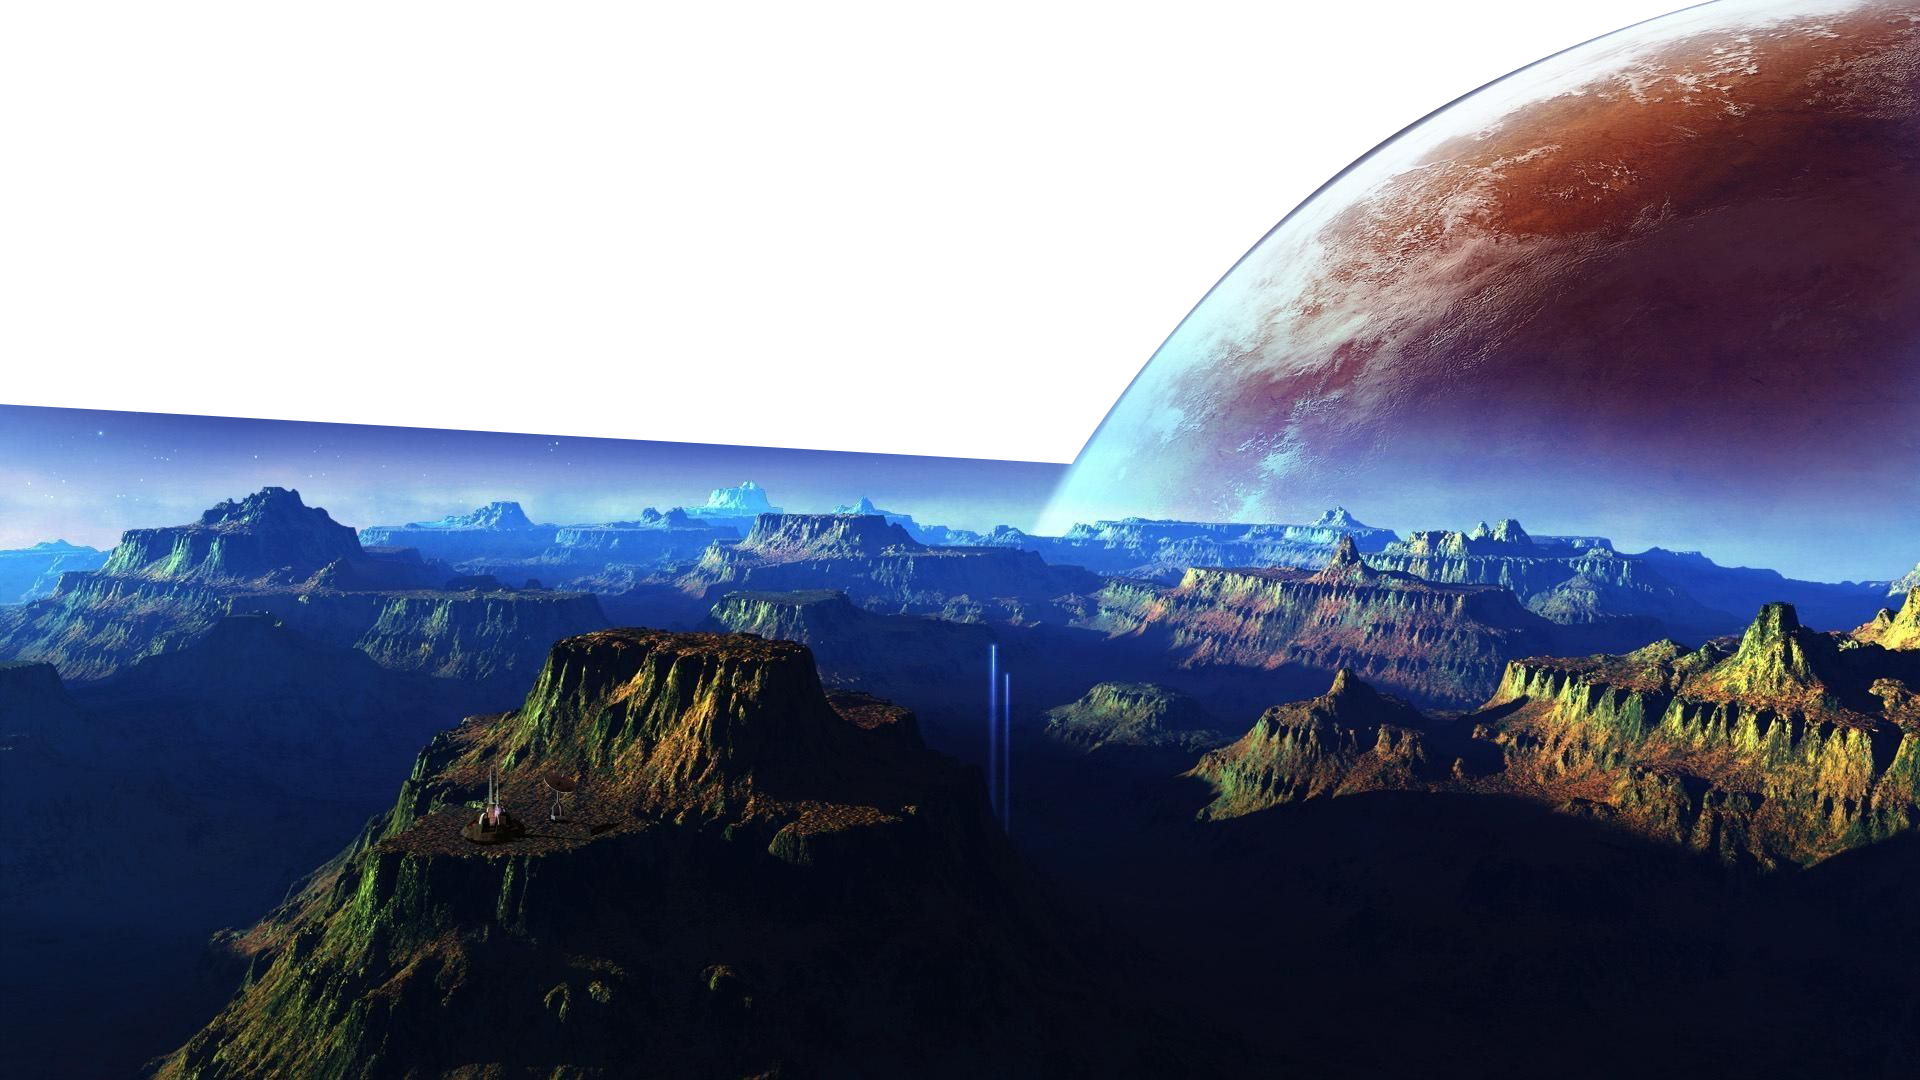
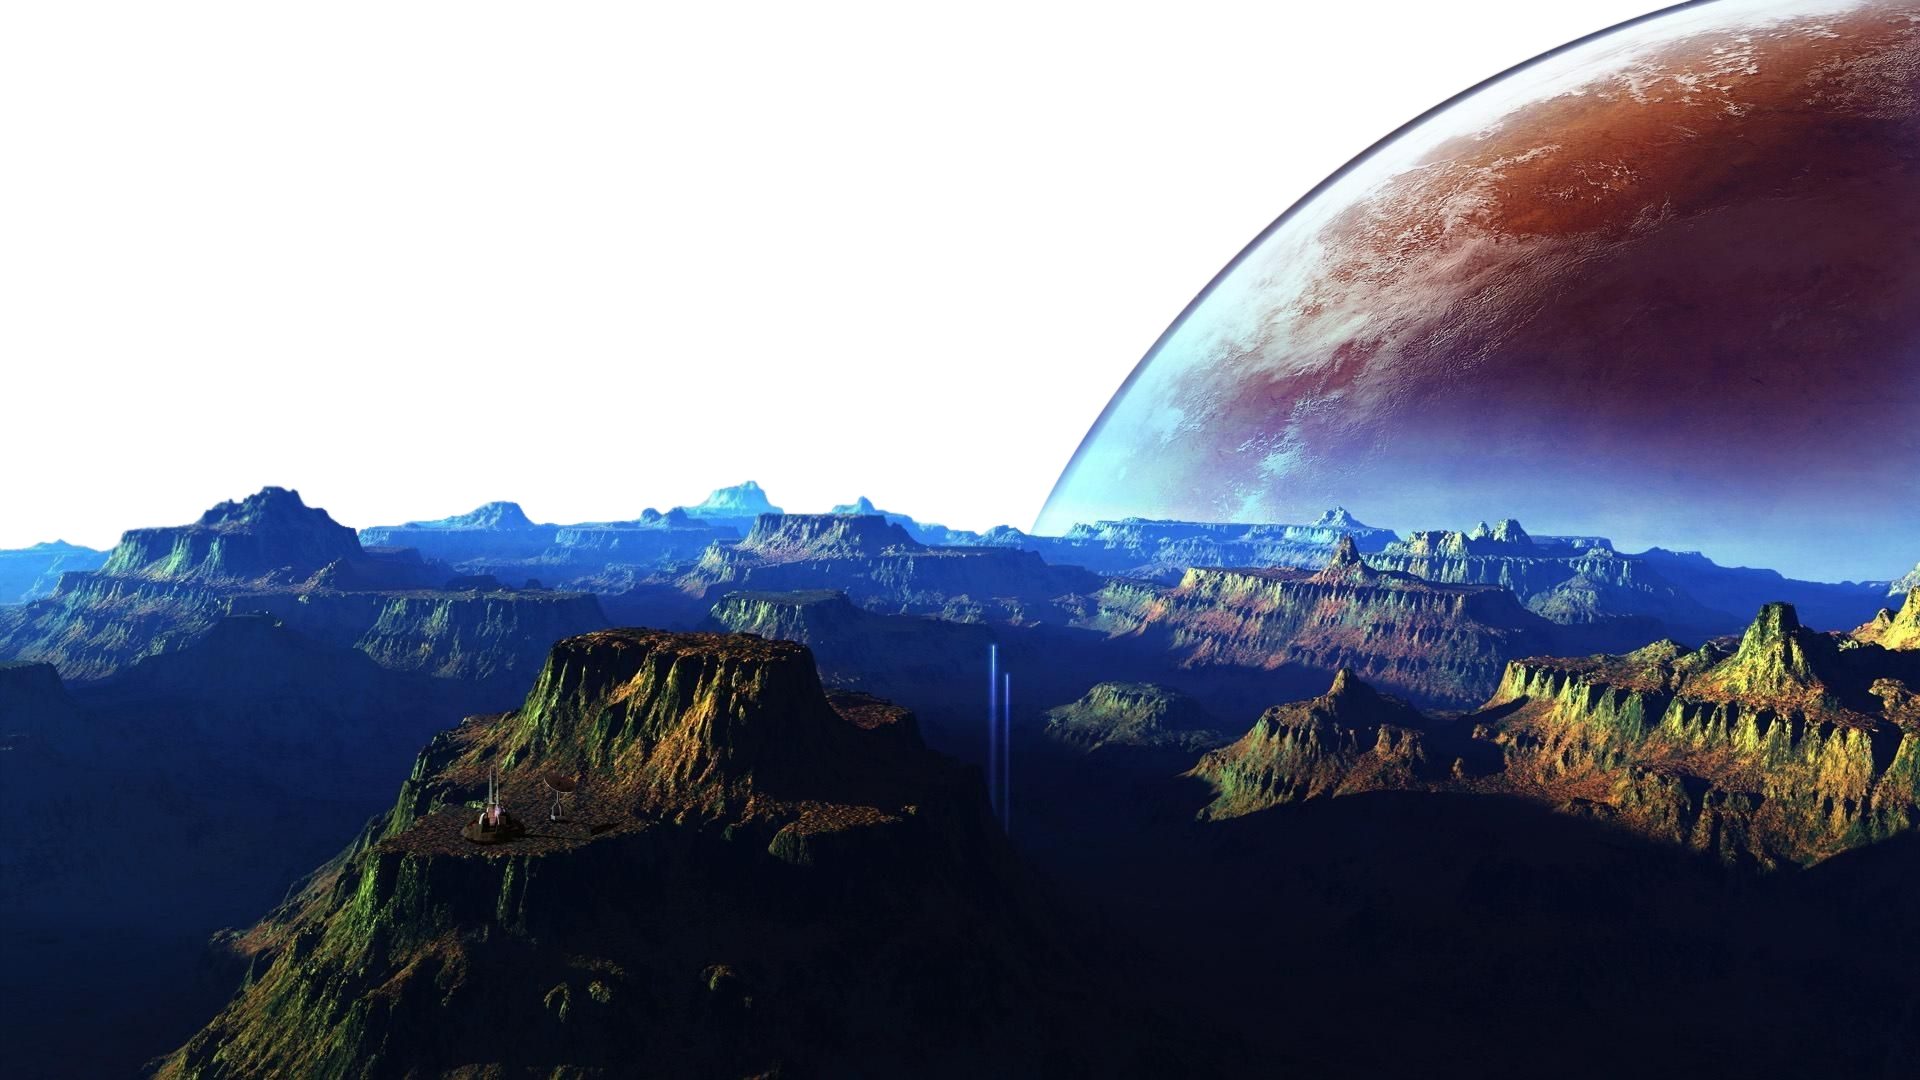
Layout da pagina home ok

diff --git a/semana9/labex/src/pages/home.js b/semana9/labex/src/pages/home.js
@@ -1,17 +1,147 @@
 import React from "react";
-import styled from "styled-components";
+import { useHistory } from "react-router";
+import styled, { keyframes } from "styled-components";
 import BaseBg from "../assets/images/bg-base.png"
+import TopBg from "../assets/images/bg-top.png"
+import MoonBg from "../assets/images/moon.png"
+import { goToListTripPage } from "../routes/coordinator";
 
 const HomePage = () => {
+    const history = useHistory()
+
     return(
     <Main>
-        Página Home
+        <MoonIMG src={MoonBg} alt="moon"/>
+        <TopIMG src={TopBg} alt="space"/>
+        <MainCard>
+            <>
+            <h1>Sejam bem vindos a LabeX!</h1>
+            <p>Somos a melhor agência de viagens espacias de toda via lactea!</p>
+            <p>Se você sempre sonhou em fazer uma viagem espacial, chegou o momento. Conheça nossos destinos, candidate-se em uma de nossas aventuras, e nos convença a escolher você para reinventar o conceito de viagens ao redor do mundo!</p>
+            </>
+            <button onClick={()=> {goToListTripPage(history)}}>Nossas Viagens</button>
+        </MainCard>
     </Main>
     )
 }
 
 export default HomePage
 
+const translate = keyframes`
+0% {
+    transform: translateX(850%) translateY(-110px) rotate(-170deg) ;
+}
+
+100% {
+    transform: translateX(-200px) translateY(300px)
+}
+`
+
 const Main = styled.main`
-background: image("../assets/images/bg-base.png")
+background: url(${BaseBg}) no-repeat;
+background-size: cover;
+height: 100vh;
+max-width: 1440px;
+position: relative;
+overflow: hidden;
+`
+
+const MainCard = styled.div`
+height: 60%;
+width: 40%;
+min-width: 360px;
+min-height: 436px;
+position: absolute;
+top: 50%;
+left: 50%;
+transform: translate(-50%,-50%);
+backdrop-filter: blur(4px);
+background: hsla(0,0%,100%,.438);
+border-radius: 10px;
+z-index: 100;
+display: flex;
+flex-direction: column;
+align-items: center;
+box-shadow: 0 8px 32px 0 rgb(0 9 2 / 82%), inset 0 8px 32px 0 rgb(28 30 69 / 52%);
+padding: 20px 30px; 
+border: 1px solid #f4f4f4;
+
+h1{
+    margin-bottom: 12px;
+
+    @media (max-width: 1024px) {
+        font-size: 24px;
+    }
+
+    @media (max-width: 768px) {
+        font-size: 21px;
+    }
+}
+
+p{
+    font-size: 20px;
+    font-weight:500;
+    text-align: justify;
+    margin-bottom: 12px;
+
+    @media (max-width: 1024px) {
+        font-size: 17px;
+        letter-spacing: 1px;
+    }
+
+    @media (max-width: 768px) {
+        font-size: 16px;
+        letter-spacing: 1px;
+    }
+}
+
+button{
+    padding: 15px;
+    outline: none;
+    border: none;
+    border-radius: 5px;
+    font-size: 18px;
+    text-transform: uppercase;
+    background-color: #2f0444;
+    
+    color: #f4f4f4;
+    font-weight: 400;
+    cursor: pointer;
+    transition: .3s;
+
+    :hover{
+        background-color: #3A0555;
+        box-shadow: 0 4px 8px 0 rgb(0 9 2 / 52%);
+        transform: translateY(-2px)
+    }
+
+    :active{
+        transform: scale(1.1);
+    }
+}
+`
+
+const MoonIMG = styled.img`
+width: 120px;
+object-fit: cover;
+position: absolute;
+left: 30px;
+animation: ${translate} 30s linear infinite;
+z-index: -1;
+`
+
+const TopIMG = styled.img`
+object-fit: cover;
+position: absolute;
+top: -110px;
+left: -110px;
+z-index: -2;
+
+@media (min-width: 1440px) {
+width: 100%;
+object-fit: cover;
+position: absolute;
+top: 1px;
+left: 0;
+}
 `

diff --git a/semana9/labex/public/index.html b/semana9/labex/public/index.html
@@ -10,34 +10,13 @@
       content="Web site created using create-react-app"
     />
     <link rel="apple-touch-icon" href="%PUBLIC_URL%/logo192.png" />
-    <!--
-      manifest.json provides metadata used when your web app is installed on a
-      user's mobile device or desktop. See https://developers.google.com/web/fundamentals/web-app-manifest/
-    -->
+    <link href="https://fonts.googleapis.com/css2?family=Poppins:wght@300;400;500;700&display=swap" rel="stylesheet">
+ 
     <link rel="manifest" href="%PUBLIC_URL%/manifest.json" />
-    <!--
-      Notice the use of %PUBLIC_URL% in the tags above.
-      It will be replaced with the URL of the `public` folder during the build.
-      Only files inside the `public` folder can be referenced from the HTML.
-
-      Unlike "/favicon.ico" or "favicon.ico", "%PUBLIC_URL%/favicon.ico" will
-      work correctly both with client-side routing and a non-root public URL.
-      Learn how to configure a non-root public URL by running `npm run build`.
-    -->
-    <title>React App</title>
+    <title>LabeX - Agência de Viagens Espaciais</title>
   </head>
   <body>
     <noscript>You need to enable JavaScript to run this app.</noscript>
     <div id="root"></div>
-    <!--
-      This HTML file is a template.
-      If you open it directly in the browser, you will see an empty page.
-
-      You can add webfonts, meta tags, or analytics to this file.
-      The build step will place the bundled scripts into the <body> tag.
-
-      To begin the development, run `npm start` or `yarn start`.
-      To create a production bundle, use `npm run build` or `yarn build`.
-    -->
   </body>
 </html>

diff --git a/semana9/labex/src/index.css b/semana9/labex/src/index.css
@@ -1,10 +1,21 @@
-body {
+* {
   margin: 0;
-  font-family: -apple-system, BlinkMacSystemFont, 'Segoe UI', 'Roboto', 'Oxygen',
+  padding: 0;
+  box-sizing: border-box;
+  font-family: 'Poppins', -apple-system, BlinkMacSystemFont, 'Segoe UI', 'Roboto', 'Oxygen',
     'Ubuntu', 'Cantarell', 'Fira Sans', 'Droid Sans', 'Helvetica Neue',
     sans-serif;
   -webkit-font-smoothing: antialiased;
   -moz-osx-font-smoothing: grayscale;
+}
+
+body {
+  font-family: 'Poppins', -apple-system, BlinkMacSystemFont, 'Segoe UI', 'Roboto', 'Oxygen',
+    'Ubuntu', 'Cantarell', 'Fira Sans', 'Droid Sans', 'Helvetica Neue',
+    sans-serif;
+  -webkit-font-smoothing: antialiased;
+  -moz-osx-font-smoothing: grayscale;
+  max-width: 1440px;
 }
 
 code {

diff --git a/semana9/labex/src/routes/coordinator.js b/semana9/labex/src/routes/coordinator.js
@@ -1,0 +1,3 @@
+export const goToListTripPage = (history) => {
+    history.push("/trips/list")
+}

diff --git a/semana9/labex/src/App.js b/semana9/labex/src/App.js
@@ -1,4 +1,3 @@
-import './App.css';
 import Router from './routes/Router';
 
 function App() {
